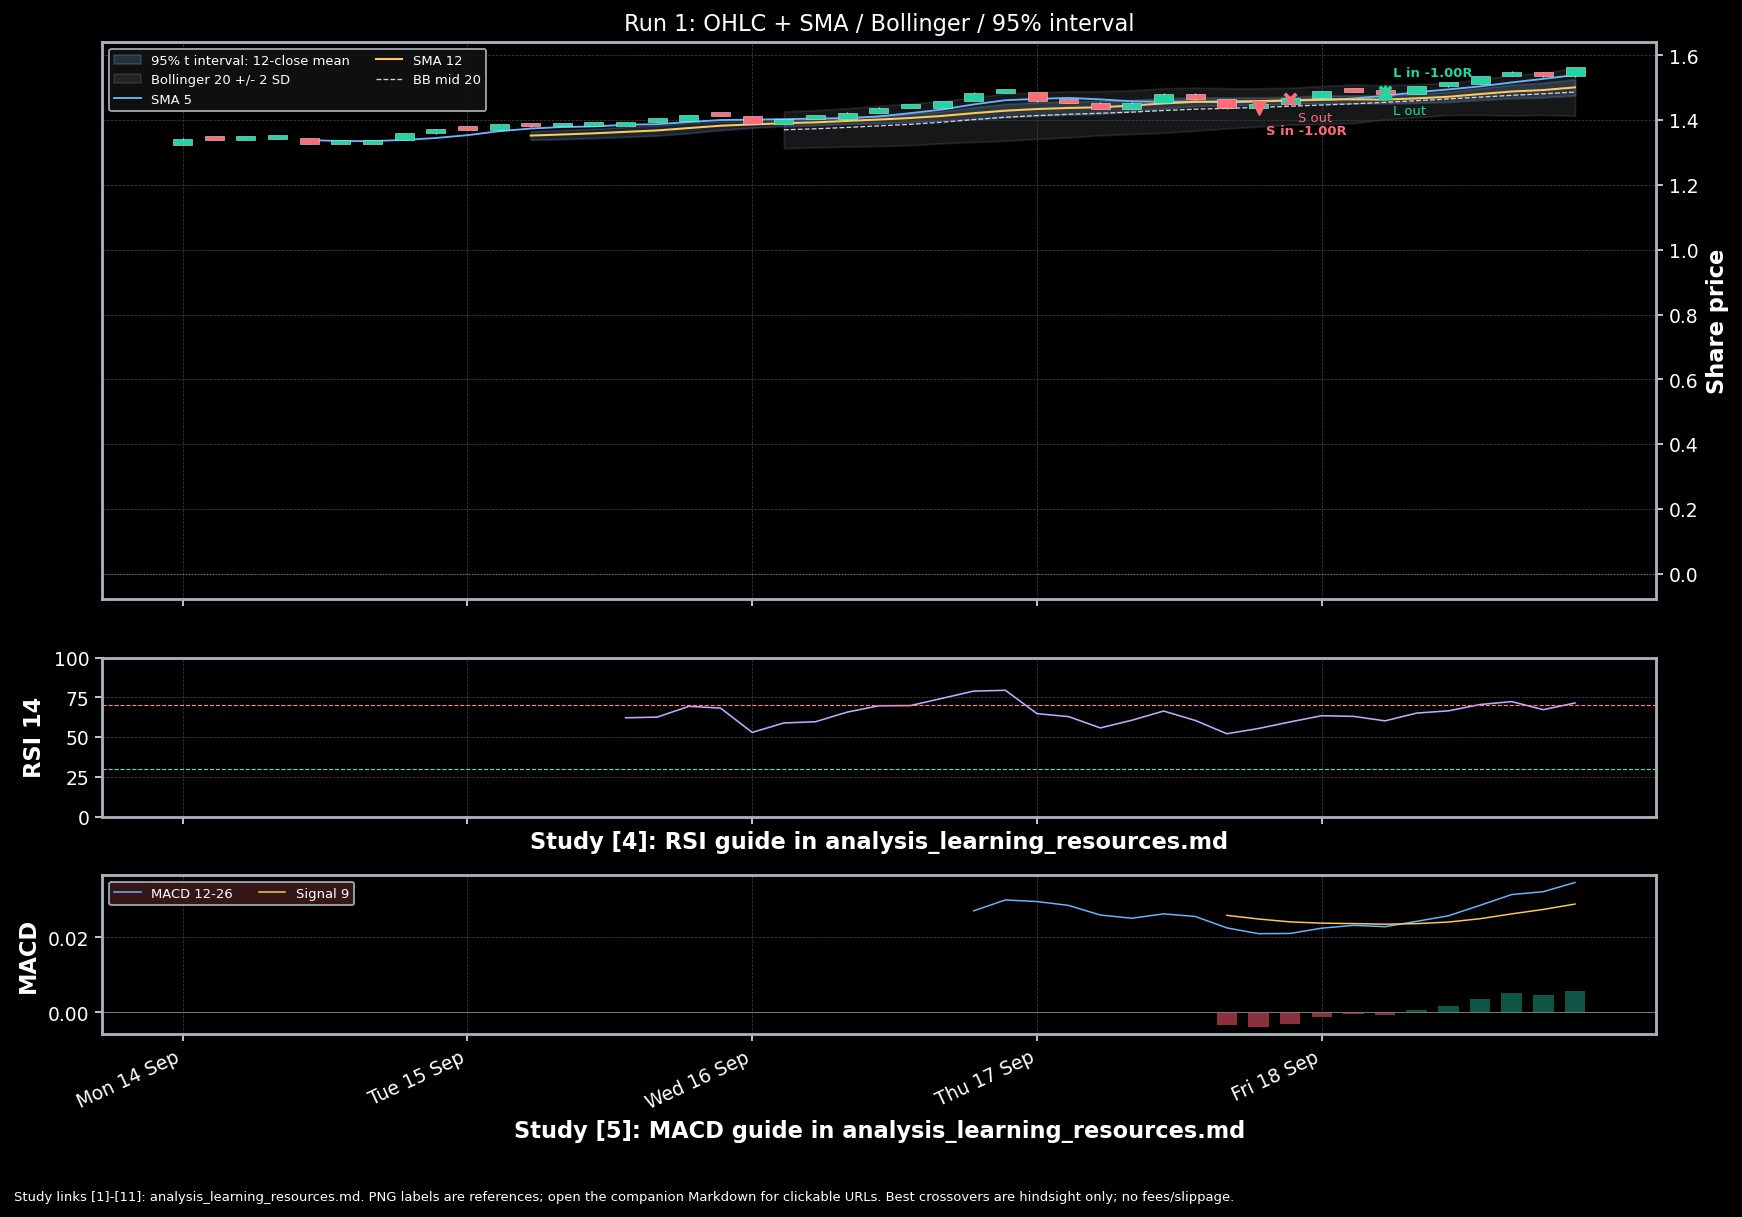
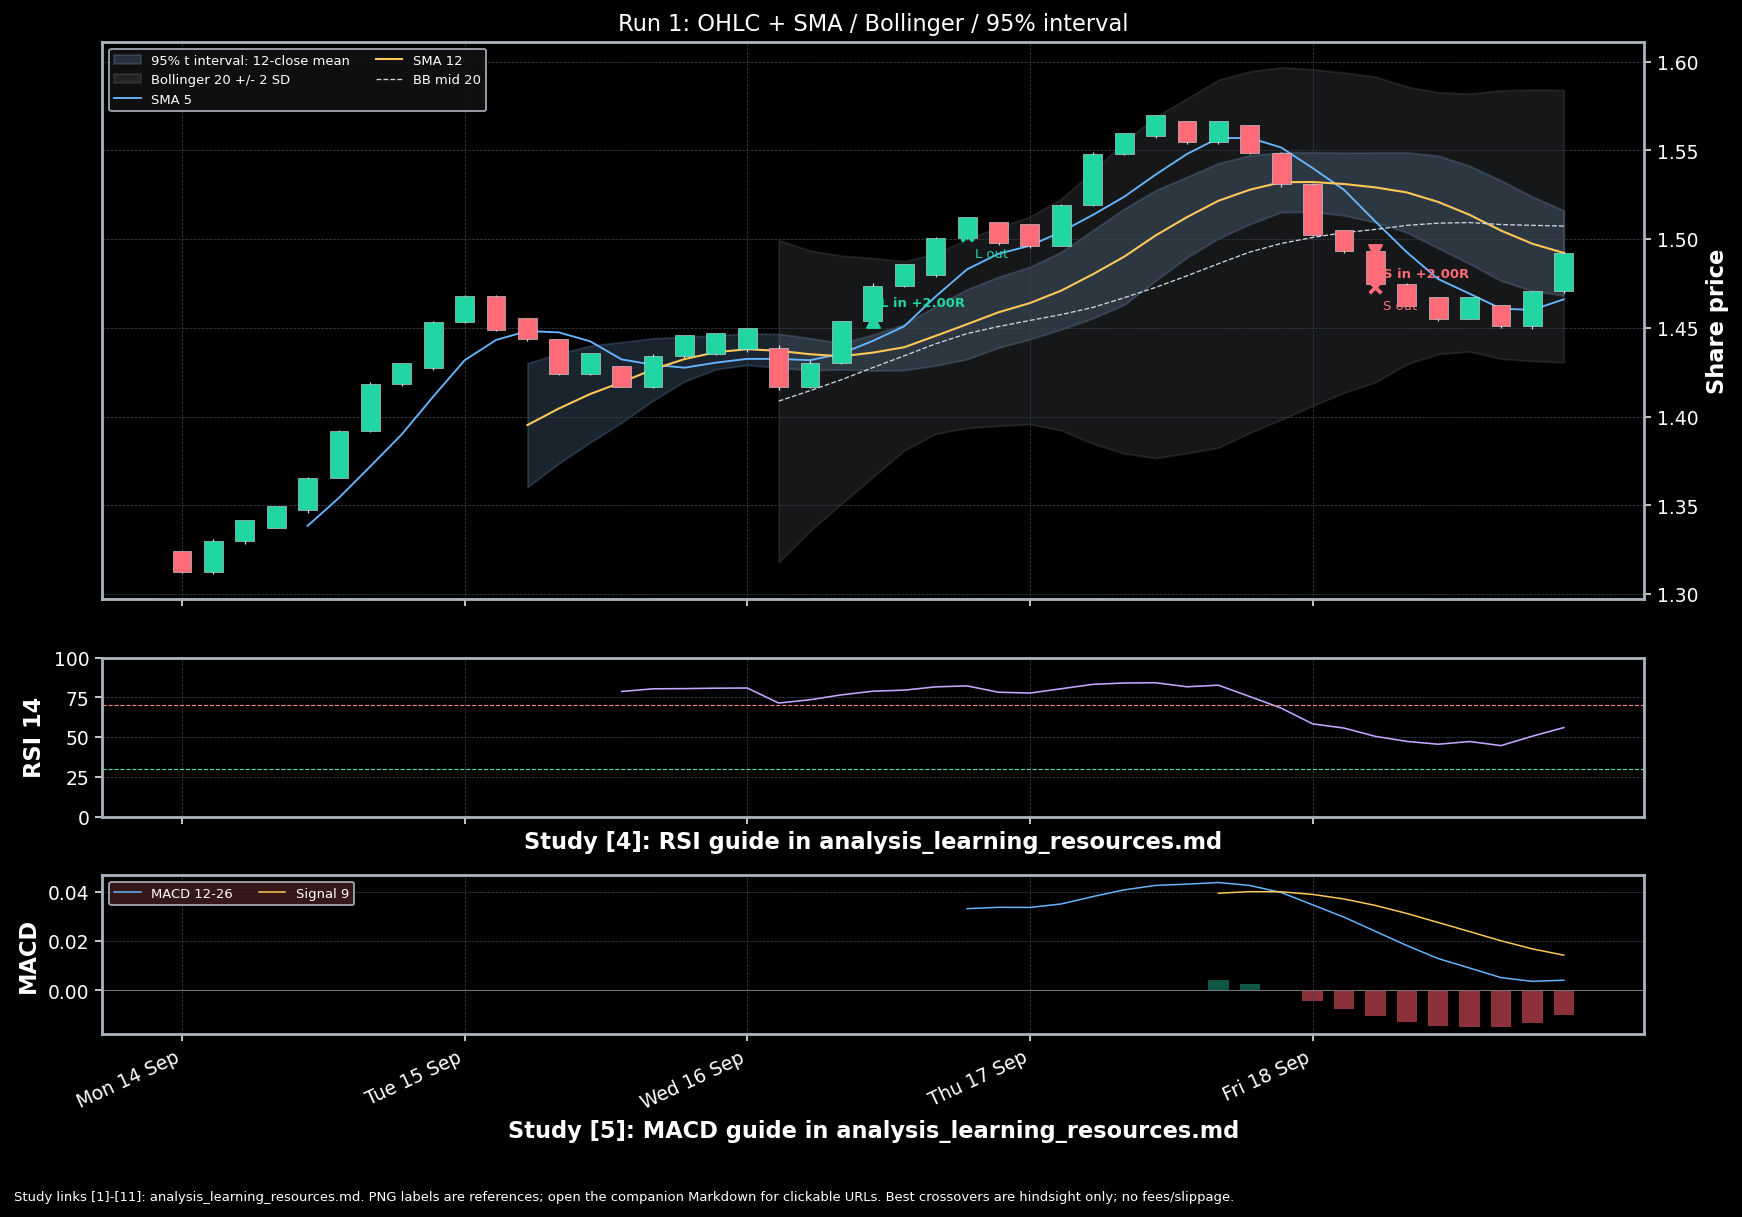
1 plot

diff --git a/maths&stats/model/market_analysis.py b/maths&stats/model/market_analysis.py
@@ -228,7 +228,6 @@ def _draw_chart(frame: pd.DataFrame, run_id: int, best_long: Trade | None, best_
                           color="#7aa6d8", alpha=.22, label="95% t interval: 12-close mean")
     price_ax.fill_between(x, frame.bb_lower_20_2sd.to_numpy(dtype=float), frame.bb_upper_20_2sd.to_numpy(dtype=float),
                           color="#aeb7c2", alpha=.13, label="Bollinger 20 +/- 2 SD")
-    price_ax.axhline(0, color="#777777", linewidth=.6, linestyle=":")
     opens: list[float] = frame["Open"].astype(float).tolist()
     highs: list[float] = frame["High"].astype(float).tolist()
     lows: list[float] = frame["Low"].astype(float).tolist()
